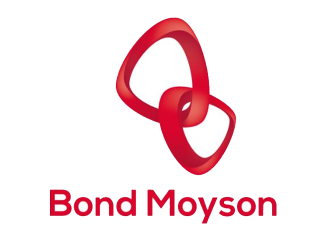
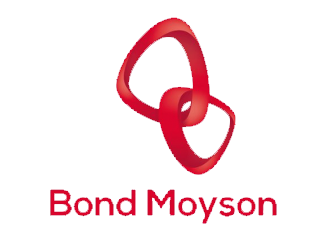
imageAdjust size and center

diff --git a/css/style.css b/css/style.css
@@ -7,6 +7,9 @@ body::-webkit-scrollbar { display: none; }
 .img-container,.iframe-container {
   height: 100%;
   display: flex;
+  width: 70%;
+  transform: translateX(-50%);
+    margin-left: 50%;
   justify-content: center;
   align-items: center;
 }
